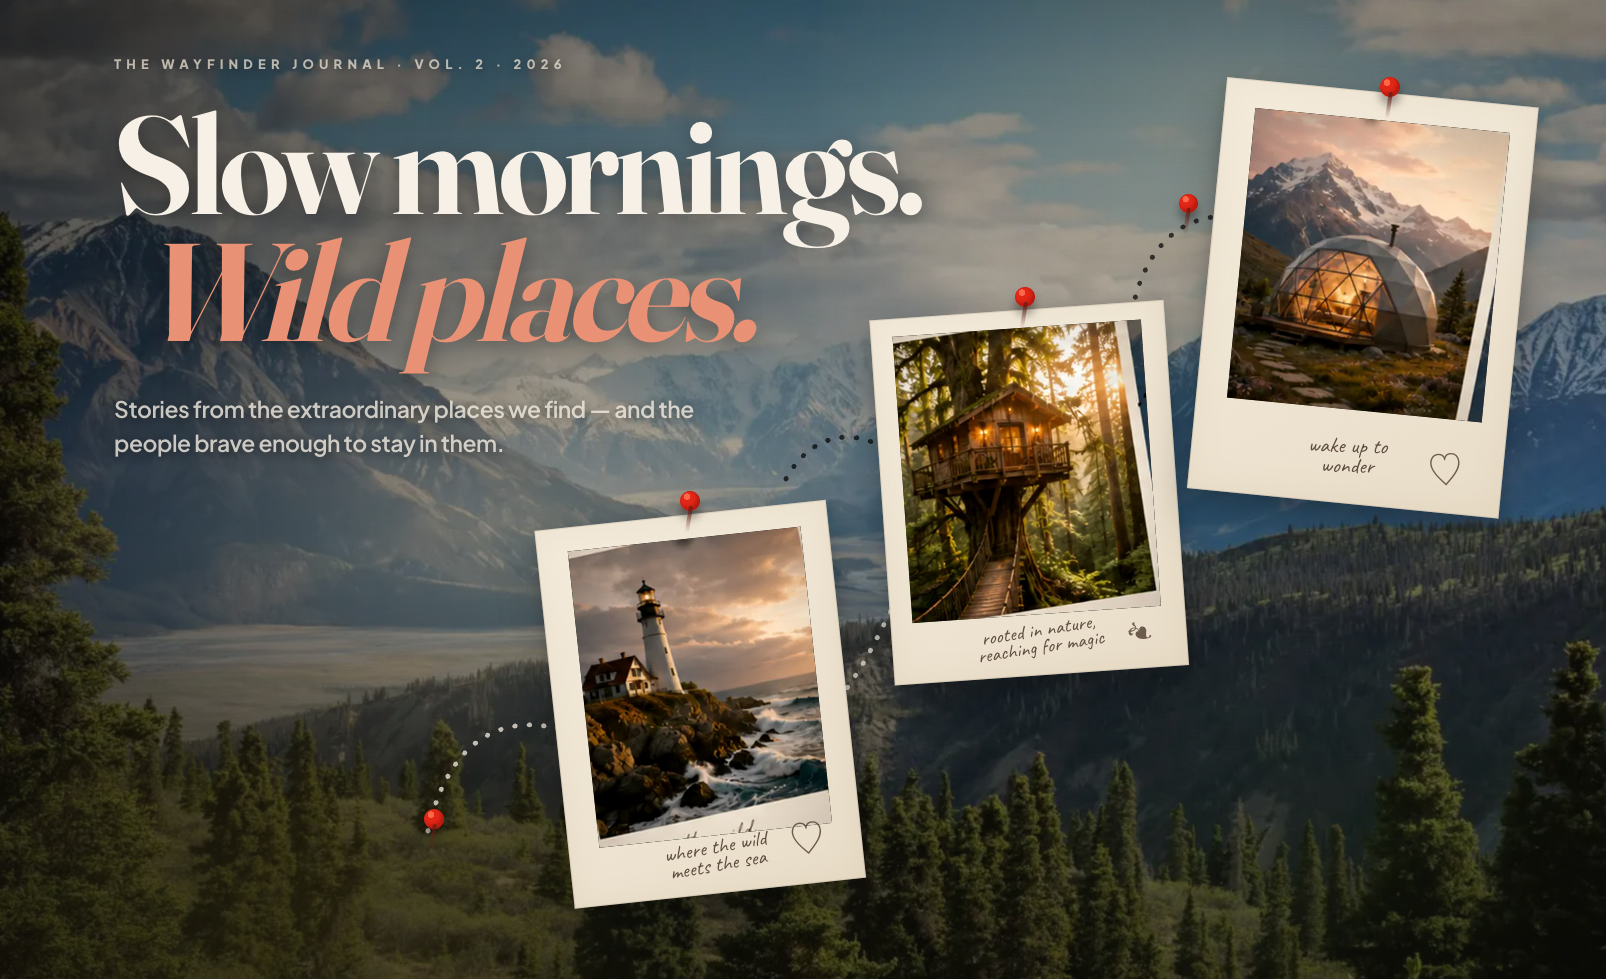
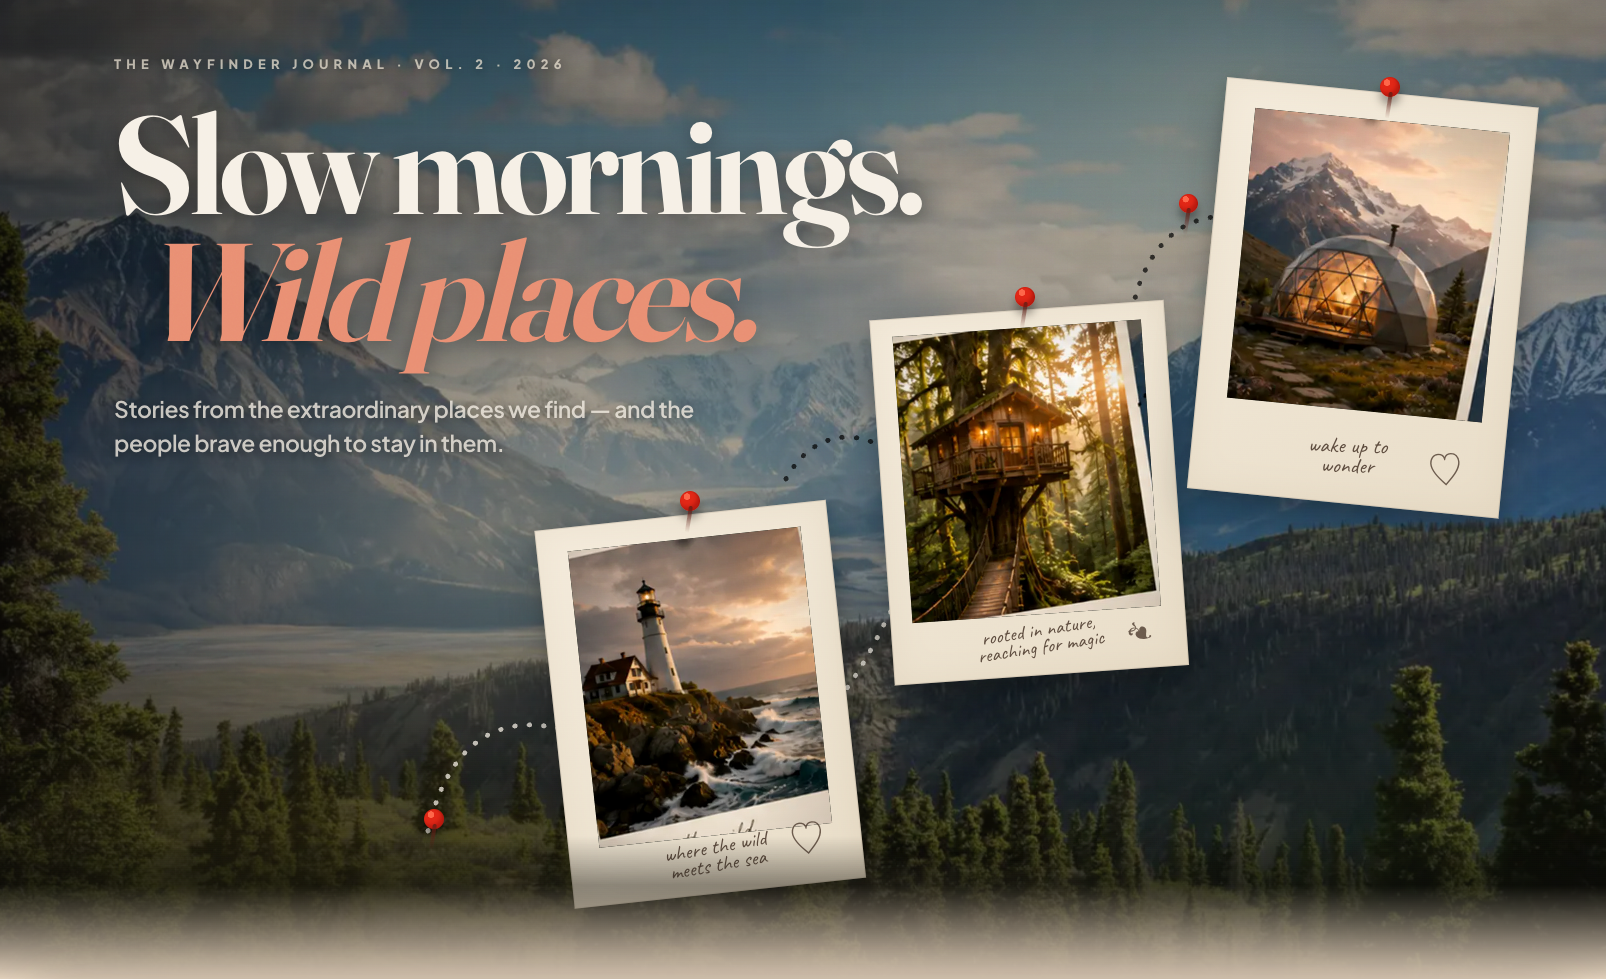
polish(journal): smooth hero to board flow

Changed region(s): [[0.0, 0.858, 1.0, 1.0]]

diff --git a/src/app/(app)/globals.css b/src/app/(app)/globals.css
@@ -450,12 +450,25 @@
   position: relative;
   z-index: 1;
   display: grid;
-  place-items: center;
-  min-height: 100svh;
+  place-items: start center;
   background:
     radial-gradient(circle at 50% 35%, rgba(236, 218, 179, 0.08), transparent 38%),
     linear-gradient(180deg, #1f211f, #070807 72%);
   overflow: hidden;
+}
+
+.journal-hero::after {
+  content: '';
+  position: absolute;
+  right: 0;
+  bottom: -1px;
+  left: 0;
+  z-index: 38;
+  height: clamp(5rem, 9vw, 9rem);
+  pointer-events: none;
+  background:
+    linear-gradient(180deg, transparent, rgba(12, 13, 9, 0.42) 34%, oklch(0.88 0.035 72) 100%),
+    radial-gradient(ellipse at 50% 100%, oklch(0.76 0.05 70 / 0.45), transparent 62%);
 }
 
 body:has(.journal-hero) nextjs-portal {
@@ -1071,14 +1084,18 @@ body:has(.journal-hero) nextjs-portal {
 
 .journal-board {
   position: relative;
-  margin: 0 clamp(0.75rem, 2vw, 2rem) clamp(4rem, 8vw, 7rem);
-  padding: clamp(1.25rem, 4vw, 4rem);
+  z-index: 4;
+  margin: clamp(0.75rem, 1.4vw, 1.5rem) clamp(0.75rem, 2vw, 2rem) clamp(4rem, 8vw, 7rem);
+  padding: clamp(1.75rem, 4.5vw, 4.5rem) clamp(1.25rem, 4vw, 4rem) clamp(1.25rem, 4vw, 4rem);
   background:
+    linear-gradient(180deg, oklch(0.91 0.032 74 / 0.98), transparent 11rem),
     radial-gradient(ellipse at 30% 20%, oklch(0.82 0.04 75 / 0.15), transparent 60%),
     radial-gradient(ellipse at 70% 80%, oklch(0.72 0.05 65 / 0.1), transparent 50%),
     linear-gradient(175deg, oklch(0.88 0.035 72), oklch(0.82 0.04 68));
   border: 1px solid oklch(0.70 0.055 70);
+  border-top-color: oklch(0.76 0.052 72);
   box-shadow:
+    0 -1.25rem 3.5rem oklch(0.18 0.018 80 / 0.22),
     inset 0 0 0 0.55rem oklch(0.50 0.07 58 / 0.12),
     0 2rem 5rem oklch(0.22 0.012 60 / 0.16);
 }
